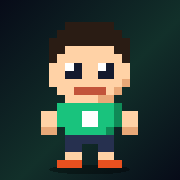
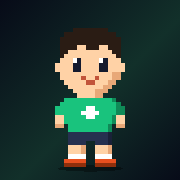
ヒーローを こまかい ドットで かきなおし、め・くち・ほっぺ・ぱっつんを えらべるように
16x20 から 24x36 の ドットに。アイコンも あたらしい えに。

Claude-Session: https://claude.ai/code/session_018NH4XLvGksvJ1yQNjYr4vu

Changed region(s): [[0.2222, 0.1111, 0.7778, 0.9444]]

diff --git a/index.html b/index.html
@@ -335,7 +335,8 @@ const XP_ACT=10, XP_WIN=20, BONUS_AT=5; // a day's first record gives one ticket
 // Looks the child can change in せってい.
 const HAIRS=[["#2a1c14","こげちゃ"],["#15131a","くろ"],["#8a5a2b","ちゃいろ"],["#e0b040","きんいろ"],["#c8402a","あか"],["#2f6fe4","あお"]];
 const SKINS=[["#ffd2a6","#e8a878","あかるい"],["#f1b98a","#cf9164","ふつう"],["#c98a5c","#a36b40","こい"]];
-const STYLES=["ふつう","ツンツン","ながい","みじかい"];
+const STYLES=["ふつう","ツンツン","ながい","みじかい","ぱっつん"];
+const EYES=["ふつう","ぱっちり","にこにこ","きりっ"], MOUTHS=["にっこり","わらう","むん"], CHEEKS=["なし","あり"];
 const SHIRTS=[["#19c37d","#0f8a57","みどり"],["#2f7bff","#1c55c0","あお"],["#e8501f","#b53d0c","オレンジ"],["#f2b705","#b98600","きいろ"],["#e86aa6","#b8437c","ピンク"],["#8a5be0","#6238b3","むらさき"]];
 const RANKS=[[1,"たまご ヒーロー"],[3,"ちびっこ ヒーロー"],[6,"げんき ヒーロー"],[10,"つよつよ ヒーロー"],[15,"スーパー ヒーロー"],[22,"でんせつの ヒーロー"],[30,"ゆうしゃ"],[40,"だいゆうしゃ"],[50,"うちゅう一の ヒーロー"]];
 const UNLOCKS=[[2,"あかい はちまき"],[4,"ヒーローの マント"],[6,"あおい ふく"],[8,"パワーの オーラ"],[11,"きんの ふく"],[14,"おうさまの かんむり"],[17,"ほのおの オーラ"],[20,"ひかる あおい め"],[25,"きんの マント"],[30,"てんしの つばさ"],[35,"いなずまの オーラ"],[40,"にじいろの オーラ"],[50,"でんせつの ほし"]];
@@ -360,7 +361,7 @@ let st={name:"",days:{},used:0,stage:0,bonus:0,equip:{},won:0,bought:null,stamps
 try{const d=JSON.parse(localStorage.getItem(LS)||"null");if(d&&typeof d==="object"){st=Object.assign(st,d);if(!st.days||typeof st.days!=="object")st.days={};if(!st.equip||typeof st.equip!=="object")st.equip={};if(!st.stamps||typeof st.stamps!=="object")st.stamps={};if(!st.moods||typeof st.moods!=="object")st.moods={};if(!st.miss||typeof st.miss!=="object")st.miss={};if(!Array.isArray(st.badges))st.badges=[];}}catch(e){}
 if(!Array.isArray(st.bought)){st.bought=[];for(let i=0;i<Math.min(st.stage||0,12);i++)st.bought.push(i);}
 function look(){const l=st.look&&typeof st.look==="object"?st.look:{}, ok=(v,a)=>Number.isInteger(v)&&v>=0&&v<a.length;
-  return {hair:ok(l.hair,HAIRS)?l.hair:0,style:ok(l.style,STYLES)?l.style:0,skin:ok(l.skin,SKINS)?l.skin:0,shirt:ok(l.shirt,SHIRTS)?l.shirt:null};}
+  return {hair:ok(l.hair,HAIRS)?l.hair:0,style:ok(l.style,STYLES)?l.style:0,skin:ok(l.skin,SKINS)?l.skin:0,shirt:ok(l.shirt,SHIRTS)?l.shirt:null,eyes:ok(l.eyes,EYES)?l.eyes:0,mouth:ok(l.mouth,MOUTHS)?l.mouth:0,cheek:ok(l.cheek,CHEEKS)?l.cheek:0};}
 const save=()=>{try{localStorage.setItem(LS,JSON.stringify(st));}catch(e){}};
 const pad=n=>String(n).padStart(2,"0");
 const dkey=d=>d.getFullYear()+"-"+pad(d.getMonth()+1)+"-"+pad(d.getDate());
@@ -395,50 +396,78 @@ function earnBadges(){const g=calc(), fresh=BADGES.filter(b=>!st.badges.includes
   fresh.forEach(b=>st.badges.push(b[0])); save(); return fresh.map(b=>`<div class="lvup" style="font-size:1rem">バッジ ゲット! ${b[1]} ${b[2]}</div>`).join("");}
 const rankOf=lv=>RANKS.filter(r=>lv>=r[0]).pop()[1];
 
-/* ---------- pixel hero: 16 x 20 grid, gear changes with the level ---------- */
+/* ---------- pixel hero: 24 x 36 grid (16-wide head). Face and hair come from せってい, gear from the level and the shop ---------- */
 function heroSVG(lv){
-  const sw=worn("sword"), sh=worn("shield"), ar=worn("armor");
-  const L=look(), own=L.shirt===null?null:SHIRTS[L.shirt];
+  const sw=worn("sword"), sh=worn("shield"), ar=worn("armor"), L=look(), own=L.shirt===null?null:SHIRTS[L.shirt];
   const shirt=ar?ar.c:own?own[0]:lv>=11?"#f2b705":lv>=6?"#2f7bff":"#19c37d", shade=ar?ar.c2:own?own[1]:lv>=11?"#b98600":lv>=6?"#1c55c0":"#0f8a57";
-  const sword=sw?`<rect x="2" y="4" width="1" height="8" fill="${sw.c}"/><rect x="3" y="5" width="1" height="7" fill="${sw.c2}"/><rect x="1" y="12" width="4" height="1" fill="#ffd34f"/><rect x="2" y="13" width="2" height="1" fill="#7d5226"/>`:"";
-  const shield=sh?`<rect x="11" y="11" width="5" height="4" fill="${sh.c2}"/><rect x="12" y="15" width="3" height="1" fill="${sh.c2}"/><rect x="12" y="12" width="3" height="3" fill="${sh.c}"/><rect x="13" y="12" width="1" height="3" fill="#ffffff" opacity=".7"/>`:"";
-  const PAL={h:HAIRS[L.hair][0],s:SKINS[L.skin][0],S:SKINS[L.skin][1],e:lv>=20?"#1f8fff":"#141a2e",m:"#c2543a",j:shirt,J:shade,n:"#26304f",b:"#e8501f",k:"#e22b2b",g:"#ffd34f",w:"#ffffff"};
-  const R=[
-    lv>=14?".....g.gg.g.....":"................",
-    lv>=14?".....gggggg.....":".....hhhhhh.....",
-    "....hhhhhhhh....",
-    "...hhhhhhhhhh...",
-    lv>=2?"..kkkkkkkkkkkk..":"...hhsssssshh...",
-    "...hssssssssh...",
-    "...sswesswess...",
-    "...sseesseess...",
-    "...sssssssssS...",
-    "....ssmmmmsS....",
-    ".....ssssSS.....",
-    "....jjjjjjjJ....",
-    "..ssjjjwwjjJss..",
-    "..ssjjjwwjjJss..",
-    "..SS.jjjjjJ.SS..",
-    ".....nnnnnn.....",
-    ".....nn..nn.....",
-    ".....ss..ss.....",
-    "....bbb..bbb....",
-    "................"];
-  const put=(y,xs)=>xs.forEach(x=>{if(R[y][x]===".")R[y]=R[y].slice(0,x)+"h"+R[y].slice(x+1);});
-  if(L.style===1&&lv<14){R[0]="....h..hh..h....";R[1]="....hhhhhhhh....";}
-  if(L.style===2){for(let y=5;y<=8;y++)put(y,[2,13]); put(9,[2,3,12,13]); put(10,[2,3,4,11,12,13]);}
-  if(L.style===3&&lv<14)R[1]="................";
+  const PAL={H:HAIRS[L.hair][0],s:SKINS[L.skin][0],S:SKINS[L.skin][1],e:lv>=20?"#1f8fff":"#141a2e",w:"#ffffff",m:"#c2543a",M:"#7a2430",c:"#ff9aa2",
+    j:shirt,J:shade,n:"#26304f",N:"#1a2138",x:"#ffffff",o:"#e8501f",O:"#8f2f0c",k:"#e22b2b",g:"#ffd34f",r:"#e22b2b"};
+  const W=24, HT=36, HX=4, HY=3, G=[]; for(let y=0;y<HT;y++)G.push(new Array(W).fill("."));
+  const set=(x,y,c)=>{if(x>=0&&x<W&&y>=0&&y<HT)G[y][x]=c;};
+  const stamp=(rows,x0,y0)=>rows.forEach((row,j)=>{for(let i=0;i<row.length;i++)if(row[i]!==".")set(x0+i,y0+j,row[i]);});
+  // body (rows 18 to 35)
+  stamp([
+    ".........ssssSS.........",
+    "......jjjjjjjjjjjJ......",
+    ".....jjjjjjjjjjjjjJ.....",
+    "....jjjjjjjwwjjjjjJJ....",
+    "....jjjjjjwwwwjjjjJJ....",
+    "....ssjjjjjwwjjjjJss....",
+    "....ssjjjjjjjjjjjJss....",
+    "....SS.jjjjjjjjjJ.SS....",
+    ".......jjjjjjjjjJ.......",
+    ".......nnnnnnnnnN.......",
+    ".......nnnnnnnnnN.......",
+    ".......nnnn..nnnN.......",
+    ".......sssS..sssS.......",
+    ".......sssS..sssS.......",
+    ".......xxxx..xxxx.......",
+    "......ooooo..ooooo......",
+    "......OOOOO..OOOOO......"],0,18);
+  // head
+  const HEAD=[
+    "....HHHHHHHH....",
+    "..HHHHHHHHHHHH..",
+    ".HHHHHHHHHHHHHH.",
+    ".HHHHHHHHHHHHHH.",
+    ".HHHHssHHHssHHH.",
+    ".HHssssssssssHH.",
+    ".HssssssssssssH.",
+    ".ssssssssssssss.",
+    "ssssssssssssssss",
+    "ssssssssssssssss",
+    ".ssssssssssssSS.",
+    ".ssssssssssssSS.",
+    "..ssssssssssSS..",
+    "...ssssssssSS...",
+    "....sssssSSS...."];
+  if(L.style===3){HEAD[0]="................";HEAD[1]="...HHHHHHHHHH...";HEAD[3]=".HHHssssssssHHH.";HEAD[4]=".HHssssssssssHH.";HEAD[5]=".HssssssssssssH.";}
+  if(L.style===4){HEAD[4]=".HHHHHHHHHHHHHH.";HEAD[5]=".HHHHHHHHHHHHHH.";HEAD[6]=".HHsHsHssHsHsHH.";}
+  stamp(HEAD,HX,HY);
+  if(L.style===1&&lv<14)stamp(["..H..H..HH..H..H",".HHHHHHHHHHHHHH."],HX,HY-2);
+  if(L.style===2){for(let y=4;y<=15;y++){set(HX,HY+y,"H");set(HX+1,HY+y,"H");set(HX+14,HY+y,"H");set(HX+15,HY+y,"H");} for(let y=12;y<=15;y++){set(HX+2,HY+y,"H");set(HX+13,HY+y,"H");}}
+  // face
+  const eye=[["we","ee","ee"],["wee","eee","eee"],[".e.","e.e"],["we","ee","ee"]][L.eyes], wide=eye[0].length===3;
+  stamp(eye,HX+(wide?3:4),HY+7); stamp(eye,HX+10,HY+7);
+  if(L.eyes===3&&L.style!==4){[[3,5],[4,6],[5,6],[12,5],[11,6],[10,6]].forEach(q=>set(HX+q[0],HY+q[1],"H"));}
+  stamp([["m..m",".mm."],["mmmm","mMMm",".mm."],[".mm."]][L.mouth],HX+6,HY+11);
+  if(L.cheek){[[2,10],[3,10],[12,10],[13,10]].forEach(q=>set(HX+q[0],HY+q[1],"c"));}
+  // things earned by level
+  if(lv>=2){for(let x=1;x<=14;x++)set(HX+x,HY+4,"k"); set(HX+15,HY+4,"k"); set(HX+15,HY+5,"k"); set(HX+16,HY+6,"k");}
+  if(lv>=14)stamp(["g.g..gg..g.g","gggggggggggg","ggrggggggrgg"],HX+2,HY-2);
   let px="";
-  R.forEach((row,y)=>{let x=0;while(x<16){const c=row[x];if(c==="."){x++;continue;}let w=1;while(x+w<16&&row[x+w]===c)w++;px+=`<rect x="${x}" y="${y}" width="${w}" height="1" fill="${PAL[c]}"/>`;x+=w;}});
+  G.forEach((row,y)=>{let x=0;while(x<W){const c=row[x];if(c==="."){x++;continue;}let w=1;while(x+w<W&&row[x+w]===c)w++;px+=`<rect x="${x}" y="${y}" width="${w}" height="1" fill="${PAL[c]}"/>`;x+=w;}});
+  const sword=sw?`<rect x="2" y="7" width="1" height="16" fill="${sw.c}"/><rect x="3" y="8" width="1" height="15" fill="${sw.c2}"/><rect x="0" y="23" width="6" height="1" fill="#ffd34f"/><rect x="2" y="24" width="2" height="2" fill="#7d5226"/>`:"";
+  const shield=sh?`<path d="M16 20h7v6h-1v2h-1v1h-3v-1h-1v-2h-1z" fill="${sh.c2}"/><path d="M17 21h5v5h-1v2h-3v-2h-1z" fill="${sh.c}"/><path d="M19 21h1v6h-1zM17 23h5v1h-5z" fill="#ffffff" opacity=".7"/>`:"";
   const ac=lv>=35?"#5ab8ff":lv>=17?"#ff6a2b":lv>=11?"#ffd34f":"#19c37d";
-  const ring=(c,rx,ry,o)=>`<ellipse cx="8" cy="10.5" rx="${rx}" ry="${ry}" fill="${c}" opacity="${o}"/>`;
-  const aura=lv>=40?ring("#ff5a5a",7.9,9.8,.3)+ring("#ffd34f",7.2,9.1,.3)+ring("#41c9a0",6.5,8.4,.3)+ring("#5ab8ff",5.8,7.7,.3)+ring("#b98bff",5.1,7,.3)
-    :lv>=8?ring(ac,7.6,9.6,.3)+ring("#ffffff",6.2,8.2,.12):"";
-  const bolts=lv>=35&&lv<40?`<path d="M1 2h1v1h1v1H2v1H1V4H0V3h1zM14 1h1v1h1v1h-1v1h-1V3h-1V2h1z" fill="#ffe86b"/>`:"";
-  const wings=lv>=30?`<path d="M0 8h1v1h1v1h1v1h1v4H3v-1H2v-1H1v-1H0zM16 8h-1v1h-1v1h-1v1h-1v4h1v-1h1v-1h1v-1h1z" fill="#ffffff"/><path d="M1 10h1v1h1v2H2v-1H1zM15 10h-1v1h-1v2h1v-1h1z" fill="#cfe0ff"/>`:"";
-  const stars=lv>=50?`<path d="M1 1h1v1H1zM14 0h1v1h-1zM0 16h1v1H0zM15 17h1v1h-1zM3 0h1v1H3zM12 18h1v1h-1z" fill="#fff6b0"/>`:"";
-  const cape=lv>=4?`<path d="M4 11h8l2 7H2z" fill="${lv>=25?"#f2b705":"#c21f3a"}"/>`:"";
-  return `<svg viewBox="0 0 16 20" role="img" aria-label="ヒーロー" shape-rendering="crispEdges">${aura}${bolts}${stars}${wings}<ellipse cx="8" cy="19.2" rx="5" ry=".6" fill="#000" opacity=".35"/>${cape}${px}${sword}${shield}</svg>`;
+  const ring=(c,rx,ry,o)=>`<ellipse cx="12" cy="19" rx="${rx}" ry="${ry}" fill="${c}" opacity="${o}"/>`;
+  const aura=lv>=40?ring("#ff5a5a",11.9,17.6,.3)+ring("#ffd34f",10.8,16.4,.3)+ring("#41c9a0",9.7,15.2,.3)+ring("#5ab8ff",8.6,14,.3)+ring("#b98bff",7.5,12.8,.3)
+    :lv>=8?ring(ac,11.5,17.3,.3)+ring("#ffffff",9.4,14.8,.12):"";
+  const bolts=lv>=35&&lv<40?`<path d="M1 2h2v2h2v2H3v2H1V6h-1V4h1zM21 1h2v2h1v2h-1v2h-2V5h-2V3h2z" fill="#ffe86b"/>`:"";
+  const wings=lv>=30?`<path d="M1 15h2v2h2v2h2v7H5v-2H3v-2H1v-2H0v-3h1zM23 15h-2v2h-2v2h-2v7h2v-2h2v-2h2v-2h1v-3h-1z" fill="#ffffff"/><path d="M2 18h2v2h2v4H5v-2H3v-2H2zM22 18h-2v2h-2v4h1v-2h2v-2h1z" fill="#cfe0ff"/>`:"";
+  const stars=lv>=50?`<path d="M1 1h1v1H1zM21 0h1v1h-1zM0 29h1v1H0zM23 31h1v1h-1zM4 0h1v1H4zM19 34h1v1h-1zM2 10h1v1H2zM22 11h1v1h-1z" fill="#fff6b0"/>`:"";
+  const cape=lv>=4?`<path d="M6 19h12l4 14H2z" fill="${lv>=25?"#f2b705":"#c21f3a"}"/>`:"";
+  return `<svg viewBox="0 0 ${W} ${HT}" role="img" aria-label="ヒーロー" shape-rendering="crispEdges">${aura}${bolts}${stars}${wings}<ellipse cx="12" cy="35.3" rx="7.5" ry=".7" fill="#000" opacity=".35"/>${cape}${px}${sword}${shield}</svg>`;
 }
 
 /* ---------- screens ---------- */
@@ -593,8 +622,11 @@ function openSettings(){
   sheet(`<h2>せってい</h2>
     <label class="field"><span class="label">ヒーローの なまえ</span><input id="nameIn" maxlength="12" value="${esc(st.name)}" placeholder="なまえ"></label>
     <div class="looks"><span class="label">みためを かえる</span>
-      <div style="max-width:120px;margin:0 auto;width:100%;background:#12302a;border-radius:16px;padding:6px">${heroSVG(g.lv)}</div>
+      <div style="max-width:150px;margin:0 auto;width:100%;background:#12302a;border-radius:16px;padding:6px;position:sticky;top:-18px;z-index:1">${heroSVG(g.lv)}</div>
       <div class="lr"><span class="muted">かみがた</span><div class="sws">${STYLES.map((n,i)=>`<button type="button" class="sw tx" data-look="style:${i}" aria-pressed="${L.style===i}">${n}</button>`).join("")}</div></div>
+      <div class="lr"><span class="muted">め</span><div class="sws">${EYES.map((n,i)=>`<button type="button" class="sw tx" data-look="eyes:${i}" aria-pressed="${L.eyes===i}">${n}</button>`).join("")}</div></div>
+      <div class="lr"><span class="muted">くち</span><div class="sws">${MOUTHS.map((n,i)=>`<button type="button" class="sw tx" data-look="mouth:${i}" aria-pressed="${L.mouth===i}">${n}</button>`).join("")}</div></div>
+      <div class="lr"><span class="muted">ほっぺ</span><div class="sws">${CHEEKS.map((n,i)=>`<button type="button" class="sw tx" data-look="cheek:${i}" aria-pressed="${L.cheek===i}">${n}</button>`).join("")}</div></div>
       <div class="lr"><span class="muted">かみの いろ</span><div class="sws">${HAIRS.map((x,i)=>sw("hair",i,x[0],x[1],L.hair===i)).join("")}</div></div>
       <div class="lr"><span class="muted">はだの いろ</span><div class="sws">${SKINS.map((x,i)=>sw("skin",i,x[0],x[2],L.skin===i)).join("")}</div></div>
       <div class="lr"><span class="muted">ふくの いろ</span><div class="sws"><button type="button" class="sw tx" data-look="shirt:-1" aria-pressed="${L.shirt===null}">おまかせ</button>${SHIRTS.map((x,i)=>sw("shirt",i,x[0],x[2],L.shirt===i)).join("")}</div>
@@ -765,7 +797,7 @@ document.addEventListener("click",e=>{
   if(t.id==="fight")return battle();
   if(t.id==="gearBtn")return openSettings();
   if(t.dataset.close!==undefined){closeOv(); if(t.dataset.close)go(t.dataset.close); return;}
-  if(t.dataset.look){const kv=t.dataset.look.split(":"), k=kv[0], v=+kv[1]; if(!["hair","style","skin","shirt"].includes(k))return;
+  if(t.dataset.look){const kv=t.dataset.look.split(":"), k=kv[0], v=+kv[1]; if(!["hair","style","skin","shirt","eyes","mouth","cheek"].includes(k))return;
     const L=look(); L[k]=v<0?null:v; st.look=L; const ni=$("#nameIn"); if(ni)st.name=(ni.value||"").trim().slice(0,12); save();
     const sh=document.querySelector(".sheet"), y=sh?sh.scrollTop:0; render(); openSettings(); const s2=document.querySelector(".sheet"); if(s2)s2.scrollTop=y; return;}
   if(t.id==="setOk"){st.name=($("#nameIn").value||"").trim().slice(0,12); save(); closeOv(); return render();}
